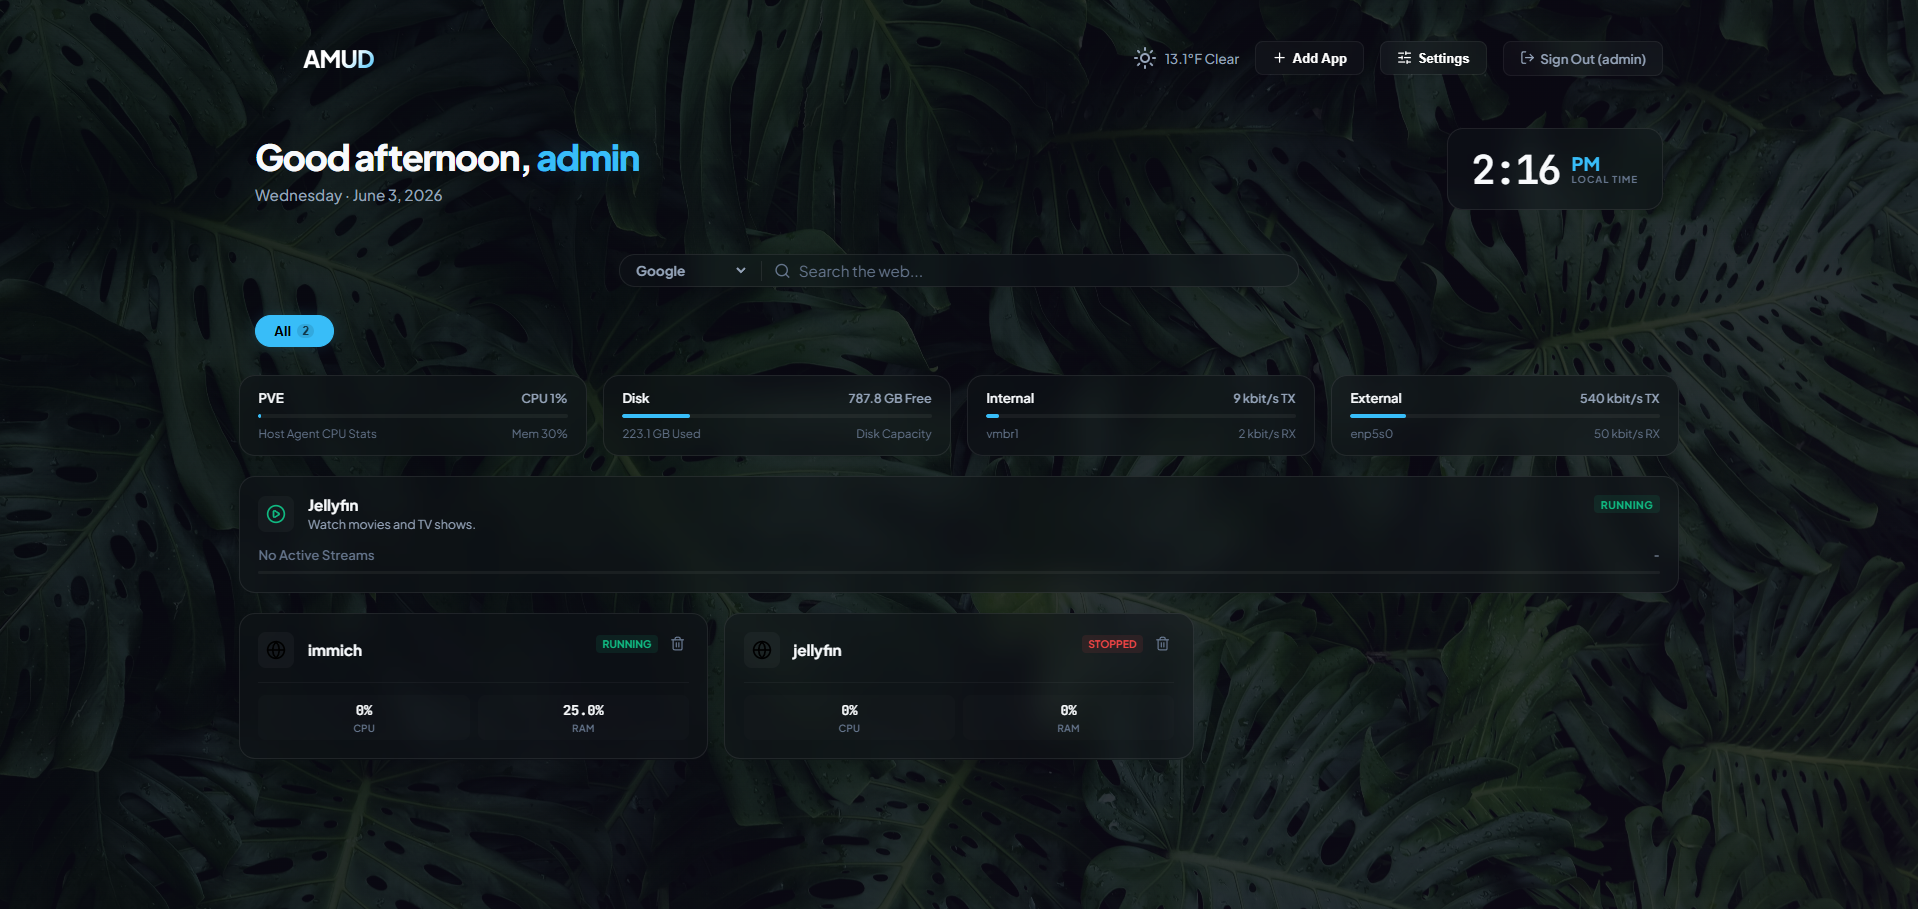
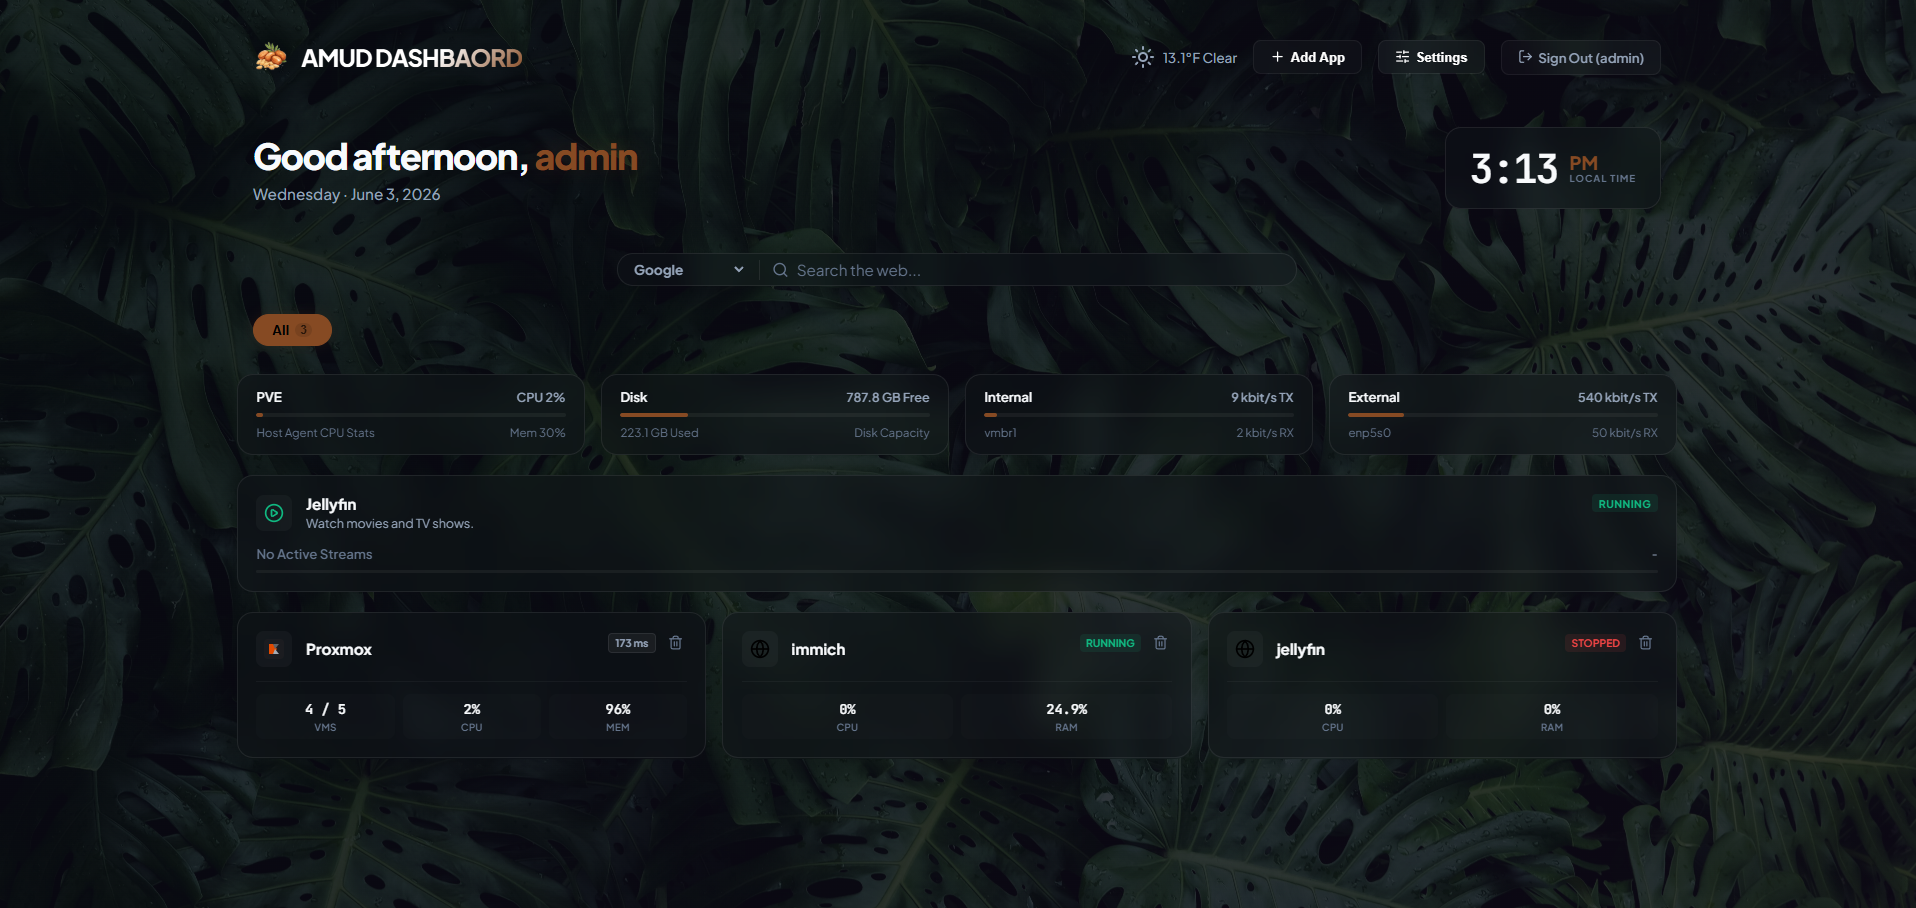
docs(readme): correct casing of dashboard preview filename

diff --git a/docs/src/pages/index.tsx b/docs/src/pages/index.tsx
@@ -34,7 +34,7 @@ function HomepageHeader() {
           </Link>
         </div>
         <div style={{ marginTop: '3rem', borderRadius: '12px', overflow: 'hidden', boxShadow: '0 25px 50px -12px rgba(0, 0, 0, 0.5)' }}>
-          <img src="img/amud-dashboard.png" alt="AMUD Dashboard Preview" style={{ width: '100%', display: 'block' }} />
+          <img src="img/AMUD-Dashboard.png" alt="AMUD Dashboard Preview" style={{ width: '100%', display: 'block' }} />
         </div>
       </div>
     </header>

diff --git a/docs/docusaurus.config.ts b/docs/docusaurus.config.ts
@@ -44,7 +44,7 @@ const config: Config = {
   ],
 
   themeConfig: {
-    image: 'img/amud-dashboard.png',
+    image: 'img/AMUD-Dashboard.png',
     colorMode: {
       defaultMode: 'dark',
       disableSwitch: false,

diff --git a/README.md b/README.md
@@ -1,6 +1,6 @@
 # AMUD Dashboard
 
-![AMUD Dashboard UI](assist/amud-dashboard.png)
+![AMUD Dashboard UI](assist/AMUD-Dashboard.png)
 AMUD (Advanced Modern Unified Dashboard) is a high-performance, intelligent home lab cockpit engineered strictly for resource-constrained environments. While legacy dashboards demand heavy runtimes, bloated frameworks, and complex text-file configurations, AMUD provides a single-binary, zero-dependency ecosystem control center that idles under **10MB of RAM** (combined server and agent).
 
 **📚 Official Documentation:** [https://boubli.github.io/AMUD-Dashboard/](https://boubli.github.io/AMUD-Dashboard/)
